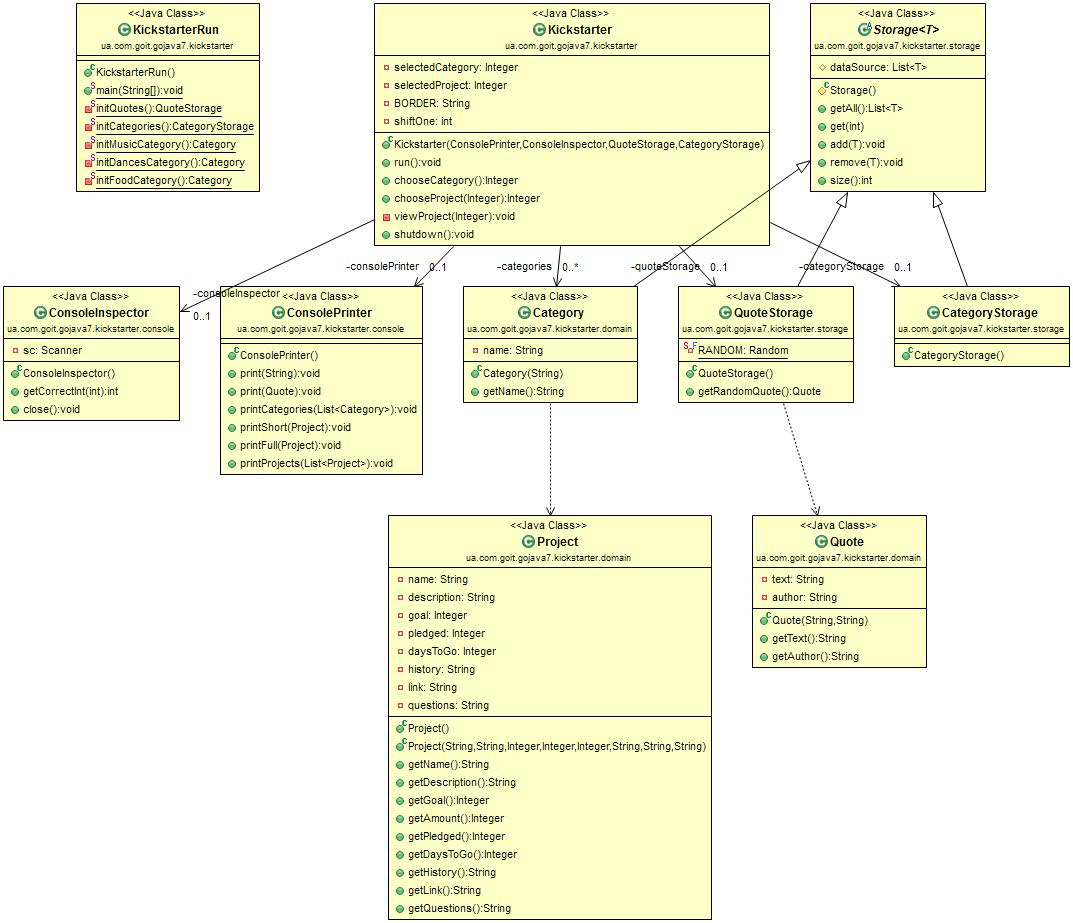
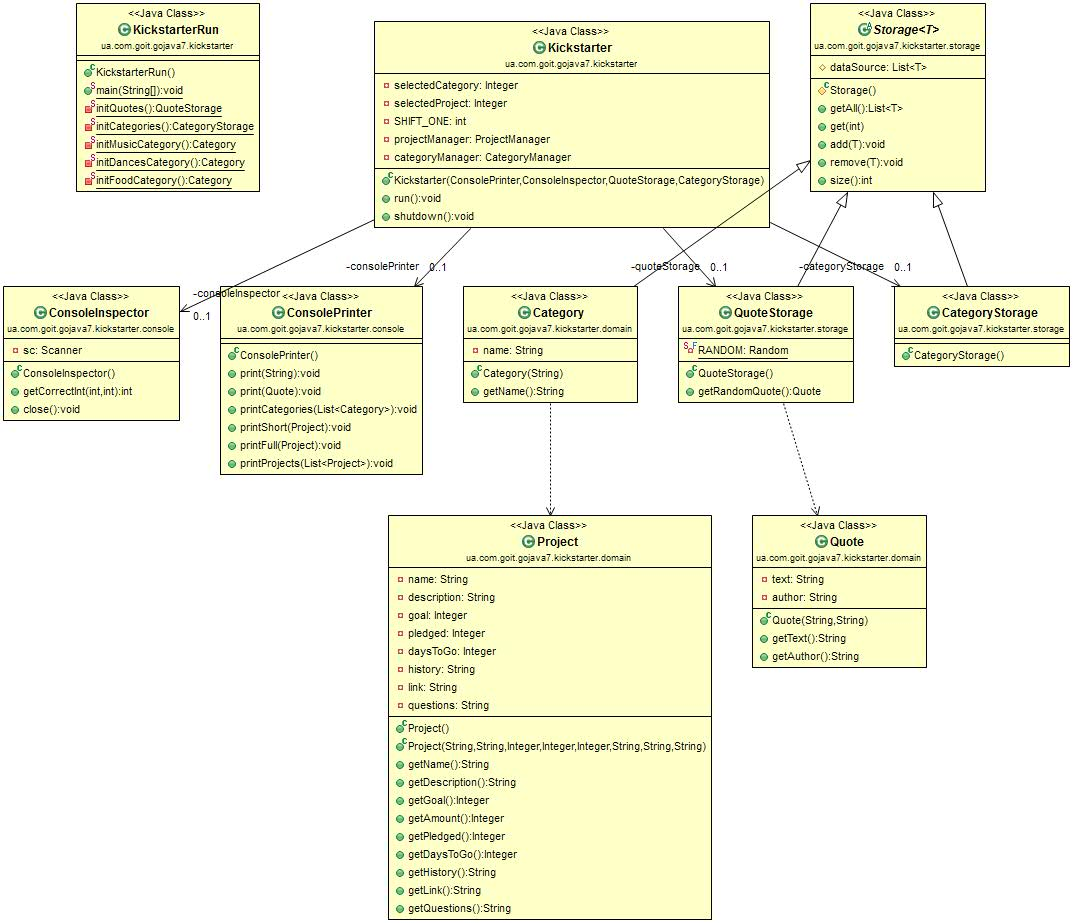
working model

Changed region(s): [[0.3383, 0.0, 0.7381, 0.3034], [0.0923, 0.3944, 0.123, 0.455]]

diff --git a/trunk/GoJava7/dobritsa/KickstarterDobritsa/src/ua/com/goit/gojava7/kickstarter/manager/CategoryManager.java b/trunk/GoJava7/dobritsa/KickstarterDobritsa/src/ua/com/goit/gojava7/kickstarter/manager/CategoryManager.java
@@ -1,52 +1,52 @@
 package ua.com.goit.gojava7.kickstarter.manager;
 
-import java.util.List;
-
 import ua.com.goit.gojava7.kickstarter.console.ConsoleInspector;
 import ua.com.goit.gojava7.kickstarter.console.ConsolePrinter;
 import ua.com.goit.gojava7.kickstarter.domain.Category;
 import ua.com.goit.gojava7.kickstarter.storage.CategoryStorage;
 
 public class CategoryManager {
-	private ConsolePrinter consolePrinter = new ConsolePrinter();
-	private ConsoleInspector consoleInspector = new ConsoleInspector();
+	private ConsolePrinter consolePrinter;
+	private ConsoleInspector consoleInspector;
+	private CategoryStorage categoryStorage;
+	
 	private String BORDER = "\n________________________________________________________";
 	private int SHIFT_ONE = 1;
 	private int FIRST = 1;
-	CategoryStorage categoryStorage;
-	Integer selectedProject = -1;
-	Integer selectedCategory = -1;
-	List<Category> categories;
-	
-public CategoryManager(List<Category> categories) {
-		this.categories = categories;		
+	private Integer selectedProject = -1;
+	private Integer selectedCategory = -1;
+
+	public CategoryManager(ConsolePrinter consolePrinter,
+			ConsoleInspector consoleInspector, CategoryStorage categoryStorage) {
+		this.consolePrinter = consolePrinter;
+		this.consoleInspector = consoleInspector;
+		this.categoryStorage = categoryStorage;
 	}
 
-	public Integer chooseProject(Category category) {		
-		consolePrinter.print(BORDER);
-		//consolePrinter.print("Current category: " + categoryStorage.get(categoryNumber - SHIFT_ONE).getName());
-		//categoryStorage.get(categoryNumber - SHIFT_ONE);
-		consolePrinter.print("List of projects:");
-		consolePrinter.printProjects(category.getAll());
-		consolePrinter.print("\nChoose a project by number (first to choose another category): ");
-		selectedProject = consoleInspector.getCorrectInt(FIRST, category.size());		
-		return selectedProject;
-	}
-	
-	public Integer chooseCategory() {
-		this.categories = categories;
+	public Integer chooseCategory() {	
 		consolePrinter.print(BORDER);
 		consolePrinter.print("\nList of categories:");
-		
-		consolePrinter.printCategories(categories);
+		consolePrinter.printCategories(categoryStorage.getAll());
 		consolePrinter.print("\nChoose a category by number (0 for exit): ");
-		selectedCategory = consoleInspector.getCorrectInt(FIRST, categories.size());
+		selectedCategory = consoleInspector.getCorrectInt(FIRST, categoryStorage.size());
 		if (selectedCategory == 0) {
 			consoleInspector.close();
 			consolePrinter.print("See you soon!");
 			System.exit(0);
 		}
 		return selectedCategory;
+	}
+
+	public Integer chooseProject(Category category, CategoryStorage categoryStorage) {
+		consolePrinter.print(BORDER);
+		consolePrinter.print("Current category N: " + (categoryStorage.indexOf(category) + 1)
+				+ "(" + category.getName() + ")");		
+		consolePrinter.print("List of projects:");
+		consolePrinter.printProjects(categoryStorage.get(selectedCategory - SHIFT_ONE).getAll());
+		consolePrinter.print("\nChoose a project by number (first to choose another category): ");
+		selectedProject = consoleInspector.getCorrectInt(FIRST, 
+				categoryStorage.get(selectedCategory - SHIFT_ONE).size());
+		return selectedProject;
 	}
 
 }

diff --git a/trunk/GoJava7/dobritsa/KickstarterDobritsa/src/ua/com/goit/gojava7/kickstarter/Kickstarter.java b/trunk/GoJava7/dobritsa/KickstarterDobritsa/src/ua/com/goit/gojava7/kickstarter/Kickstarter.java
@@ -1,10 +1,7 @@
 package ua.com.goit.gojava7.kickstarter;
 
-import java.util.List;
-
 import ua.com.goit.gojava7.kickstarter.console.ConsoleInspector;
 import ua.com.goit.gojava7.kickstarter.console.ConsolePrinter;
-import ua.com.goit.gojava7.kickstarter.domain.Category;
 import ua.com.goit.gojava7.kickstarter.manager.CategoryManager;
 import ua.com.goit.gojava7.kickstarter.manager.ProjectManager;
 import ua.com.goit.gojava7.kickstarter.storage.CategoryStorage;
@@ -17,14 +14,8 @@ public class Kickstarter {
 
 	private ConsolePrinter consolePrinter;
 	private ConsoleInspector consoleInspector;
-
-	private Integer selectedCategory = -1;
-	private Integer selectedProject = -1;
-	//private List<Category> categories;
-	private int SHIFT_ONE = 1;
-		
+	
 	private ProjectManager projectManager;
-	private CategoryManager categoryManager;
 
 	public Kickstarter(ConsolePrinter consolePrinter, ConsoleInspector consoleInspector, QuoteStorage quoteStorage,
 			CategoryStorage categoryStorage) {
@@ -36,17 +27,23 @@ public class Kickstarter {
 	}
 
 	public void run() {
+		Integer selectedCategory = -1;
+		Integer selectedProject = -1;	
+		int SHIFT_ONE = 1;	
+		
 		consolePrinter.print(quoteStorage.getRandomQuote());
-		List<Category> categories = categoryStorage.getAll();
-		categoryManager = new CategoryManager(categories);		
+		CategoryManager categoryManager = new CategoryManager(consolePrinter, 
+				consoleInspector, categoryStorage);					
 		
 		while (selectedCategory != 0){
 			selectedCategory = categoryManager.chooseCategory();
 			while (selectedCategory != 0) {
-				selectedProject = categoryManager.chooseProject(categoryStorage.get(selectedCategory - SHIFT_ONE));
+				selectedProject = categoryManager.chooseProject(categoryStorage.get(selectedCategory - SHIFT_ONE), categoryStorage);
 				if(selectedProject != 0) {
-					projectManager = new ProjectManager(categoryStorage.get(selectedCategory - SHIFT_ONE).get(selectedProject - SHIFT_ONE));
-					projectManager.viewProject();					
+					projectManager = new ProjectManager(categoryStorage.
+							get(selectedCategory - SHIFT_ONE).get(selectedProject - SHIFT_ONE), 
+							consolePrinter, consoleInspector);
+					projectManager.viewProject(selectedCategory, selectedProject);					
 				}else {
 					break;
 				}			

diff --git a/trunk/GoJava7/dobritsa/KickstarterDobritsa/src/ua/com/goit/gojava7/kickstarter/manager/ProjectManager.java b/trunk/GoJava7/dobritsa/KickstarterDobritsa/src/ua/com/goit/gojava7/kickstarter/manager/ProjectManager.java
@@ -8,25 +8,24 @@ import ua.com.goit.gojava7.kickstarter.storage.CategoryStorage;
 
 public class ProjectManager {
 	private String BORDER = "\n________________________________________________________";
-	private int SHIFT_ONE = 1;
 	private int FIRST = 0;
-	private ConsolePrinter consolePrinter = new ConsolePrinter();
-	private ConsoleInspector consoleInspector = new ConsoleInspector();
+	private ConsolePrinter consolePrinter;
+	private ConsoleInspector consoleInspector;
 	
 	Project project;
 	CategoryStorage categoryStorage;
 	Kickstarter kickstarter;
 	
-	public ProjectManager(Project project) {
+	public ProjectManager(Project project, ConsolePrinter consolePrinter, ConsoleInspector consoleInspector) {
 		this.project = project;
+		this.consolePrinter = consolePrinter;
+		this.consoleInspector = consoleInspector;
 	}
 	
-	public void viewProject() {
+	public void viewProject(Integer selectedCategory, Integer selectedProject) {
 		consolePrinter.print(BORDER);
 		//consolePrinter.print("Current category: " + category.getName());
-		//consolePrinter.print("Current project: #" + (projectNumber) + "\n");
-		//Project project = new Project();
-		//project = categoryStorage.get(categoryNumber - SHIFT_ONE).get(projectNumber - SHIFT_ONE);
+		consolePrinter.print("Current project: #" + (selectedProject) + "\n");		
 		consolePrinter.printFull(project);
 		consolePrinter.print("\nType 0 to choose another project");
 		consoleInspector.getCorrectInt(FIRST, 0);

diff --git a/trunk/GoJava7/dobritsa/KickstarterDobritsa/src/ua/com/goit/gojava7/kickstarter/storage/Storage.java b/trunk/GoJava7/dobritsa/KickstarterDobritsa/src/ua/com/goit/gojava7/kickstarter/storage/Storage.java
@@ -4,6 +4,8 @@ import java.util.ArrayList;
 import java.util.Collections;
 import java.util.List;
 
+import ua.com.goit.gojava7.kickstarter.domain.Category;
+
 public abstract class Storage<T> {
 	
 	protected List<T> dataSource;
@@ -30,6 +32,11 @@ public abstract class Storage<T> {
 	
 	public int size() {
 		return dataSource.size();
+	}
+	
+	public int indexOf(T element) {
+		return dataSource.indexOf(element);
+		
 	}
 	
 }

diff --git a/trunk/GoJava7/dobritsa/KickstarterDobritsa/src/ua/com/goit/gojava7/kickstarter/domain/Category.java b/trunk/GoJava7/dobritsa/KickstarterDobritsa/src/ua/com/goit/gojava7/kickstarter/domain/Category.java
@@ -13,5 +13,7 @@ public class Category extends Storage<Project> {
 	public String getName() {
 		return name;
 	}
+	
+	
 
 }
